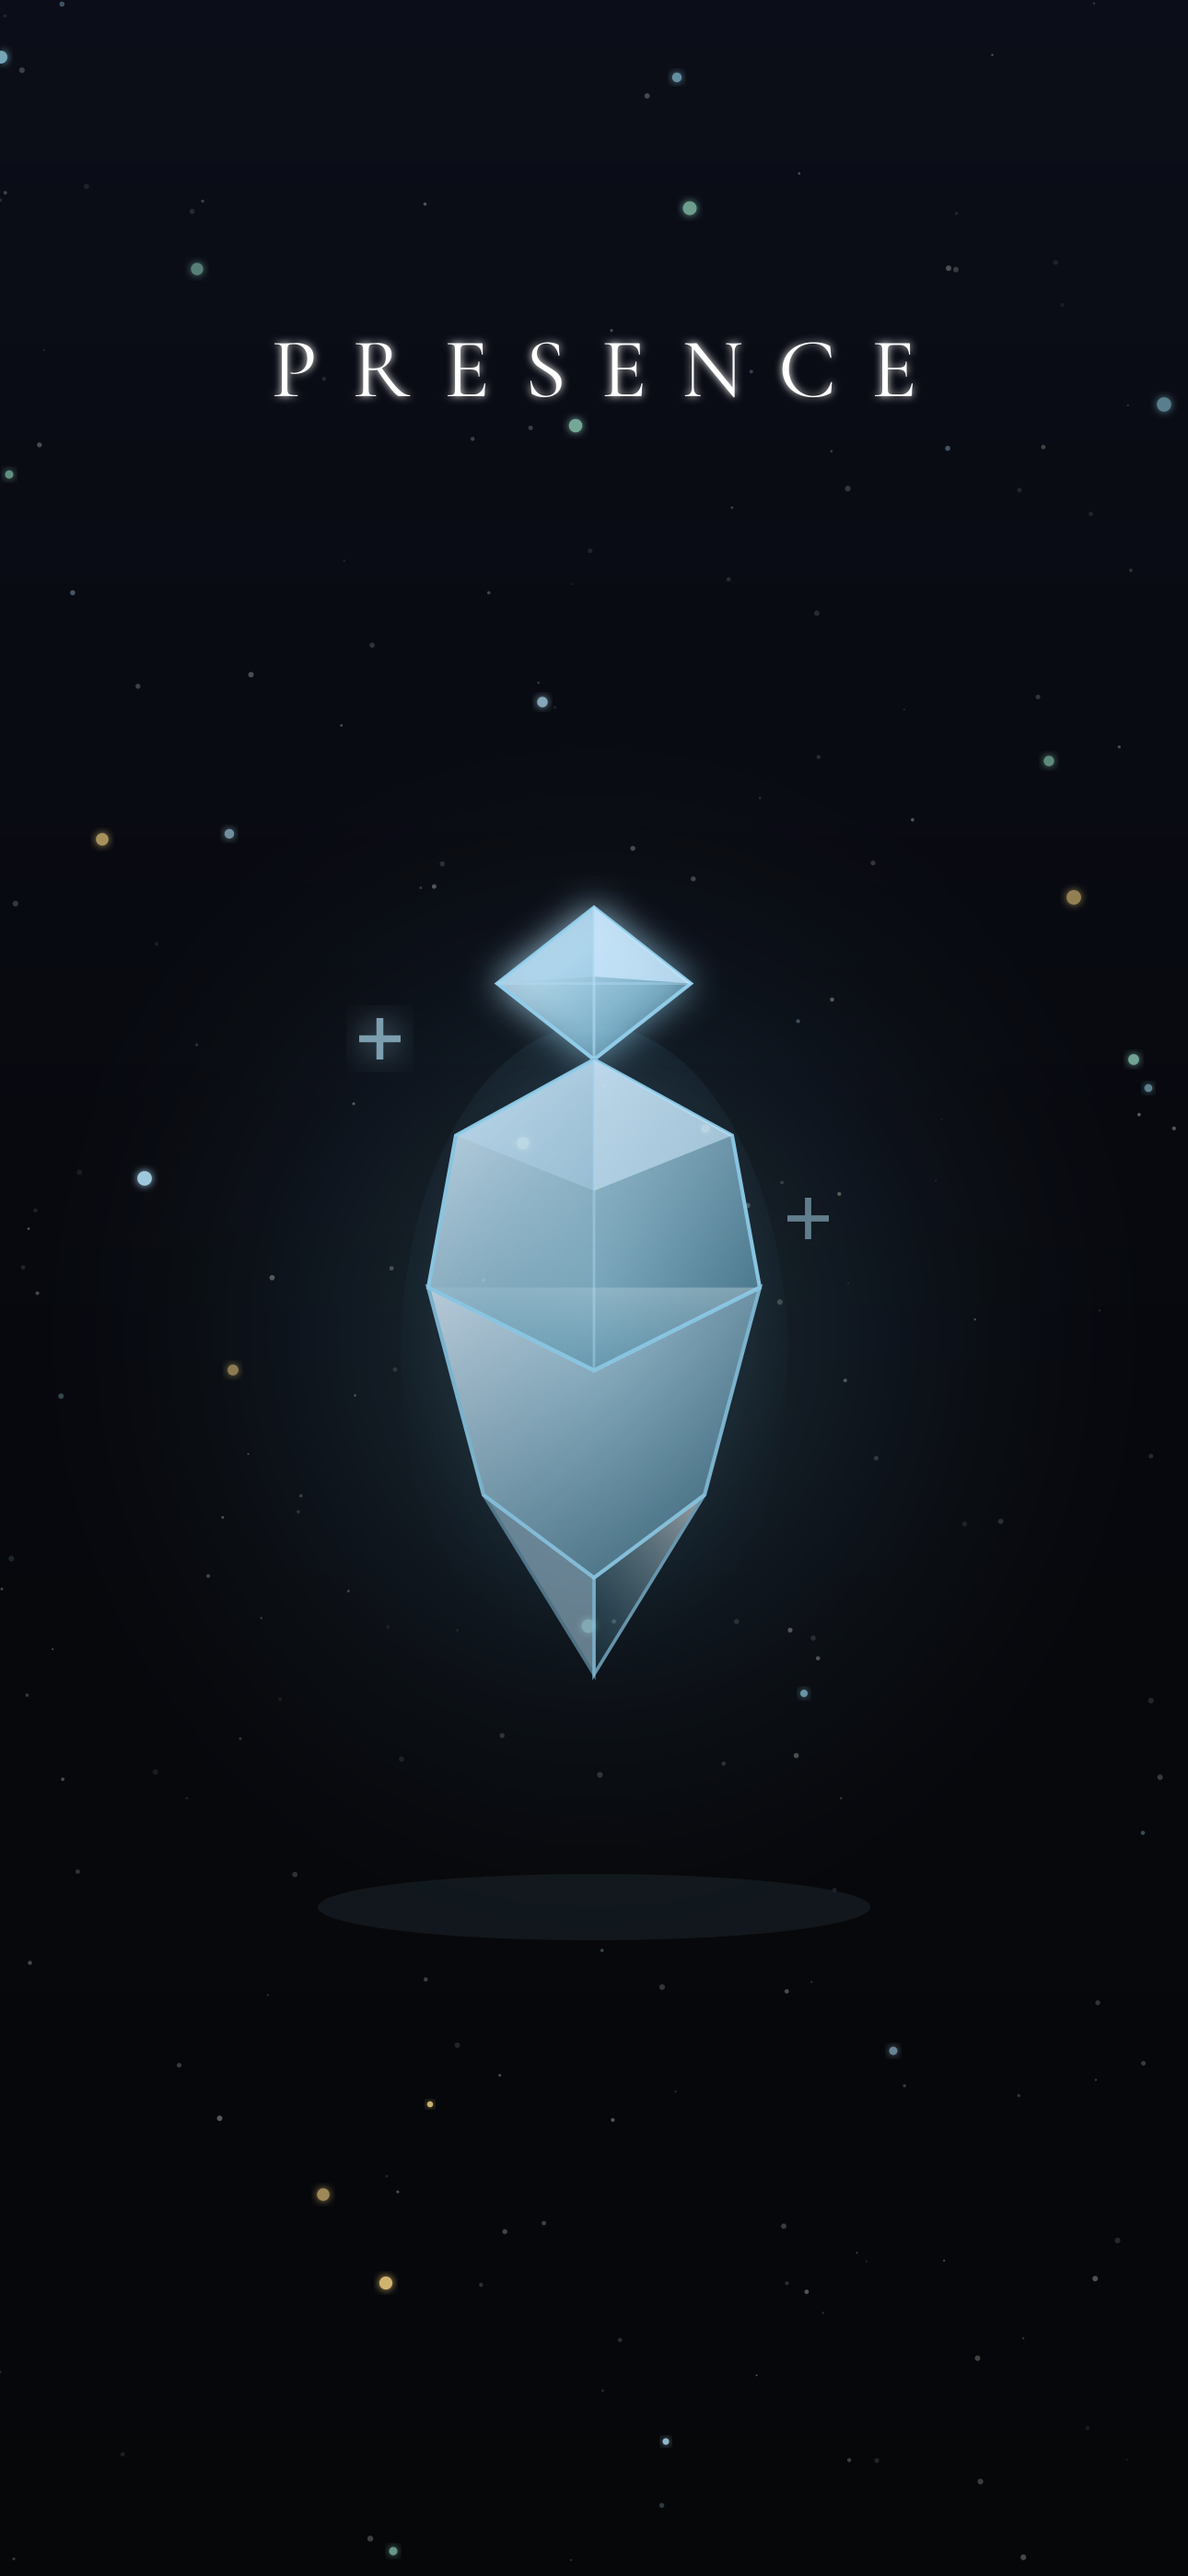
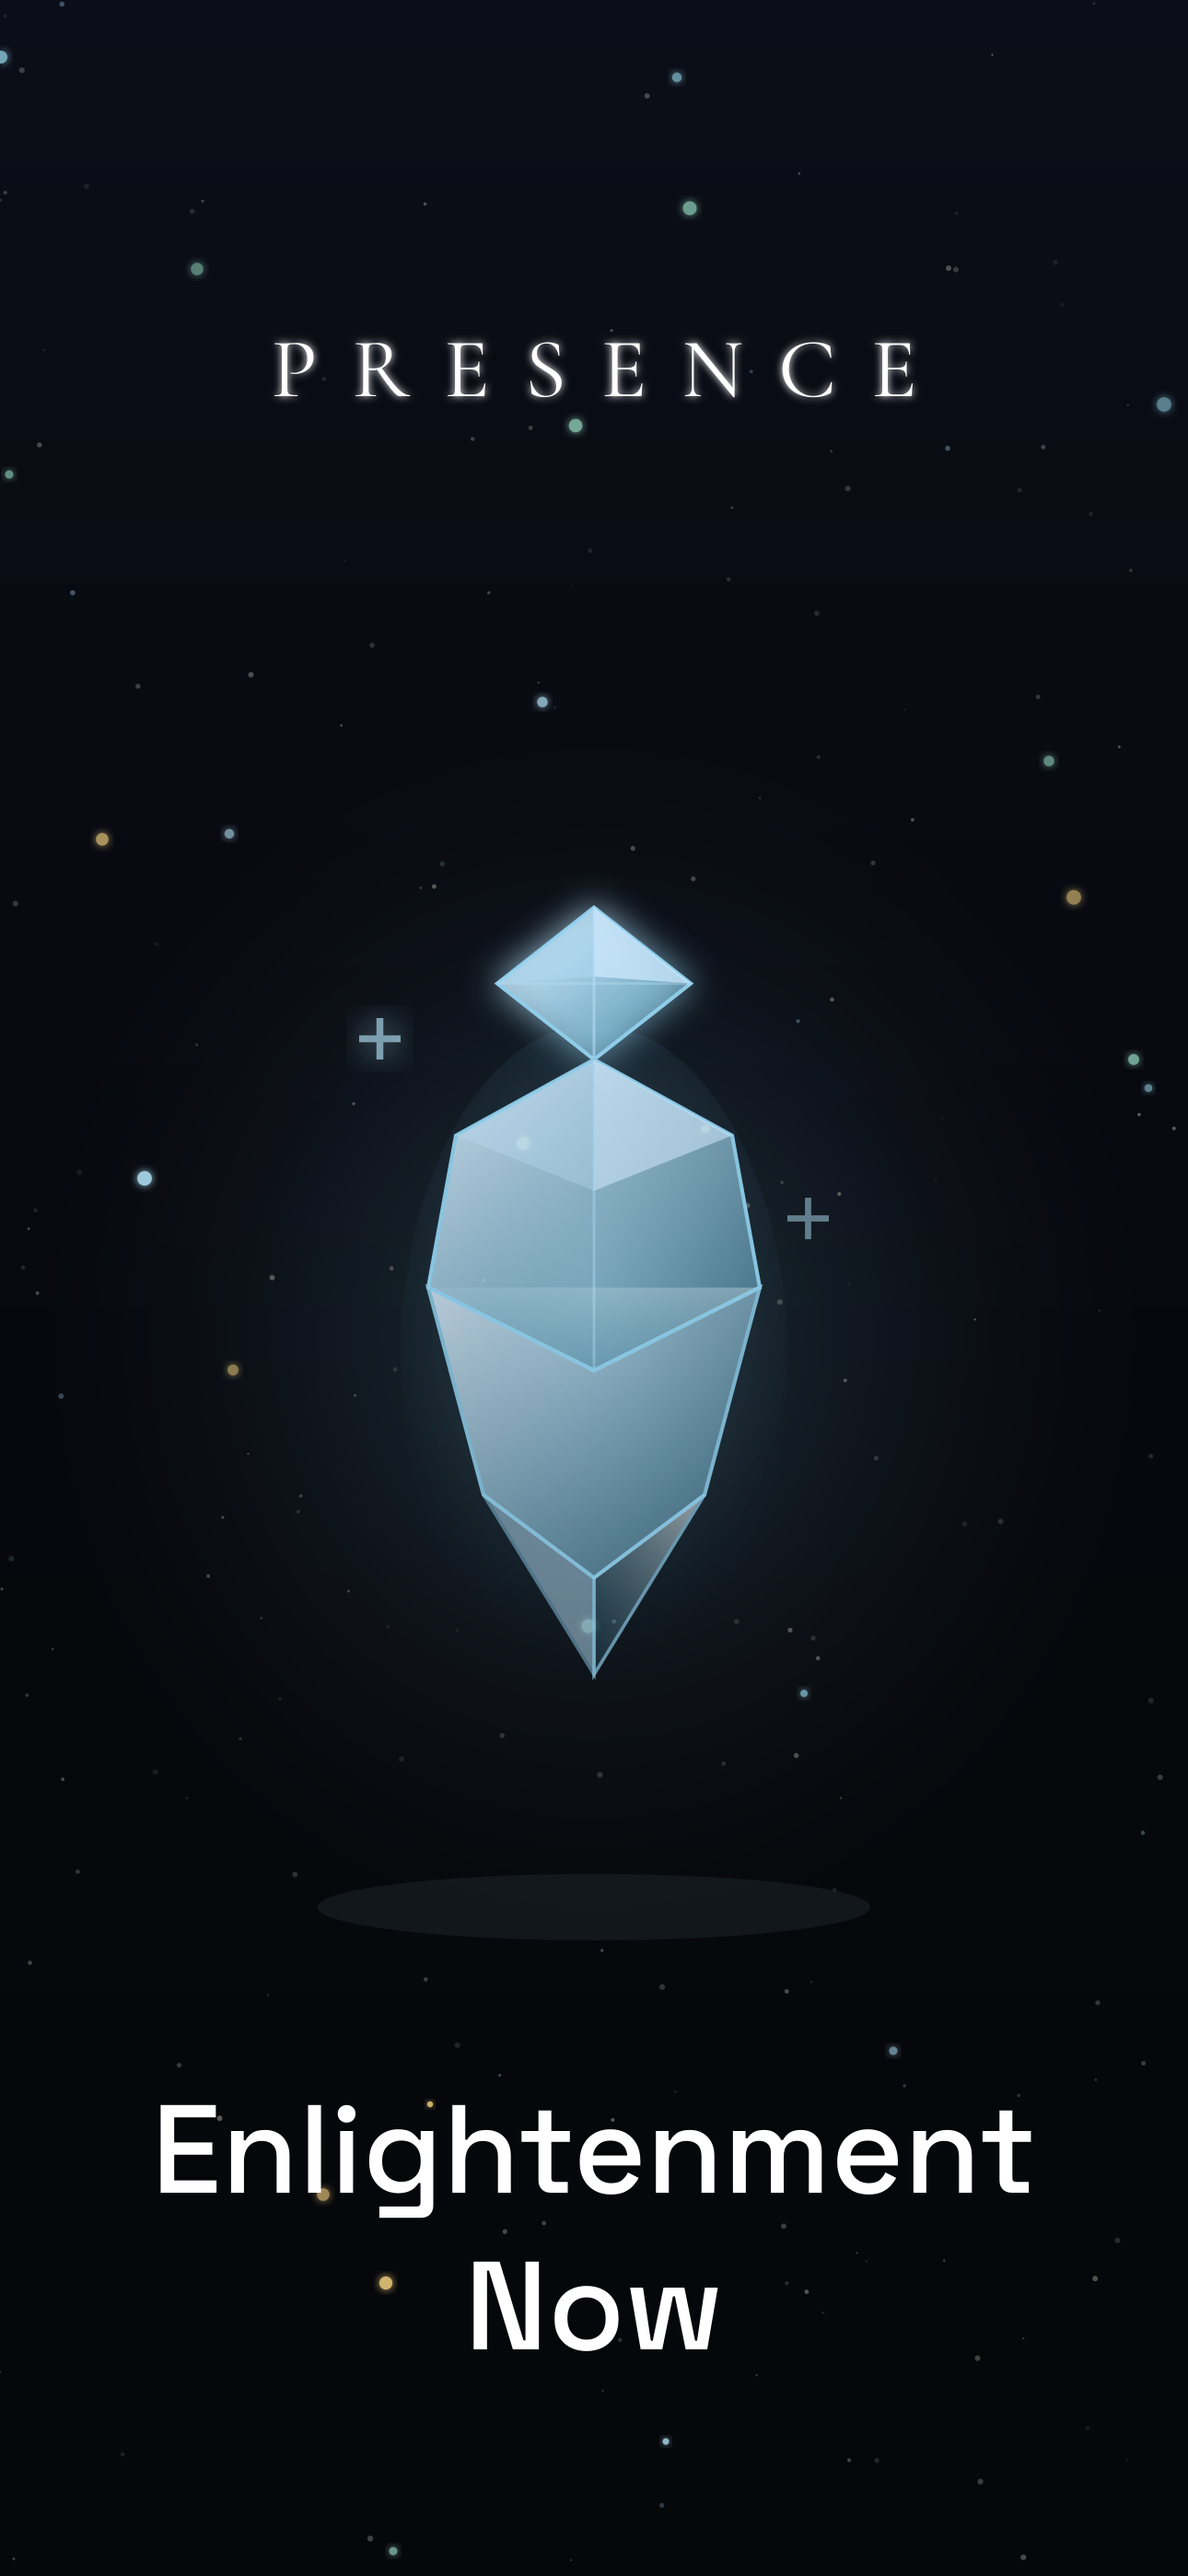
Set hero card bottom text in Space Grotesk

Changed region(s): [[0.124, 0.809, 0.8682, 0.9335]]

diff --git a/marketing/generate.js b/marketing/generate.js
@@ -146,6 +146,8 @@ function card1() {
   <text x="${W / 2}" y="430" font-family="${SERIF}" font-weight="400" font-size="92" fill="#ffffff" letter-spacing="38" text-anchor="middle" filter="url(#soft)">PRESENCE</text>
   ${crystalAt('c1', W / 2, cy, 600)}
   <ellipse cx="${W / 2}" cy="${cy + 620}" rx="300" ry="36" fill="#8ecce0" opacity="0.08"/>
+  <text x="${W / 2}" y="2380" font-family="Space Grotesk" font-weight="500" font-size="136" fill="#ffffff" text-anchor="middle">Enlightenment</text>
+  <text x="${W / 2}" y="2550" font-family="Space Grotesk" font-weight="500" font-size="136" fill="#ffffff" text-anchor="middle">Now</text>
   `, 7);
 }
 
